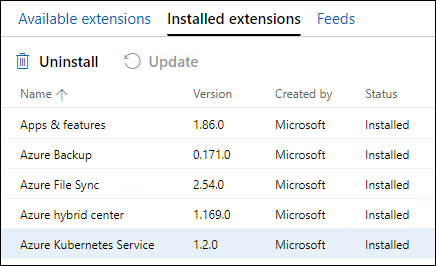
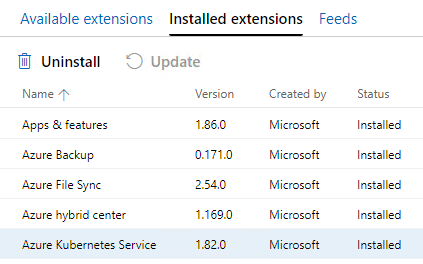
August 2021 Update

diff --git a/steps/5_DeployAKSHCI.md b/steps/5_DeployAKSHCI.md
@@ -45,7 +45,7 @@ To give the optimal experience with Windows Admin Center, you should enable **Mi
 
 Configure Windows Admin Center
 -----------
-Your Azure VM deployment automatically installed Windows Admin Center 2103, however there are some additional configuration steps that must be performed before you can use it to deploy AKS on Azure Stack HCI.
+Your Azure VM deployment automatically installed the latest version of Windows Admin Center, however there are some additional configuration steps that must be performed before you can use it to deploy AKS on Azure Stack HCI.
 
 1. **Double-click the Windows Admin Center** shortcut on the desktop.
 2. Once Windows Admin Center is open, you may receive notifications in the top-right corner, indicating that some extensions are updating automatically. **Let these finish updating before proceeding**. Windows Admin Center may refresh automatically during this process.
@@ -53,6 +53,12 @@ Your Azure VM deployment automatically installed Windows Admin Center 2103, howe
 4. Click on **Installed extensions** and you should see **Azure Kubernetes Service** listed as installed
 
 ![Installed extensions in Windows Admin Center](/media/installed_extensions.png "Installed extensions in Windows Admin Center")
+
+____________
+
+**NOTE** - Ensure that your Azure Kubernetes Service extension is the **latest available version**. If the **Status** is **Installed**, you have the latest version. If the **Status** shows **Update available (1.#.#)**, ensure you apply this update and refresh before proceeding.
+
+_____________
 
 In order to deploy AKS-HCI with Windows Admin Center, you need to connect your Windows Admin Center instance to Azure.
 
